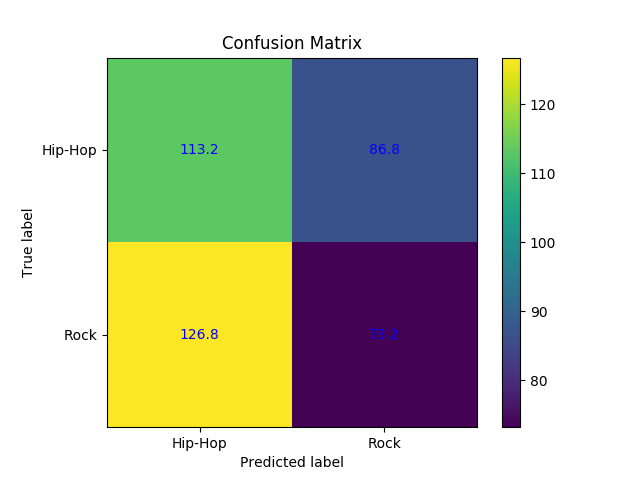
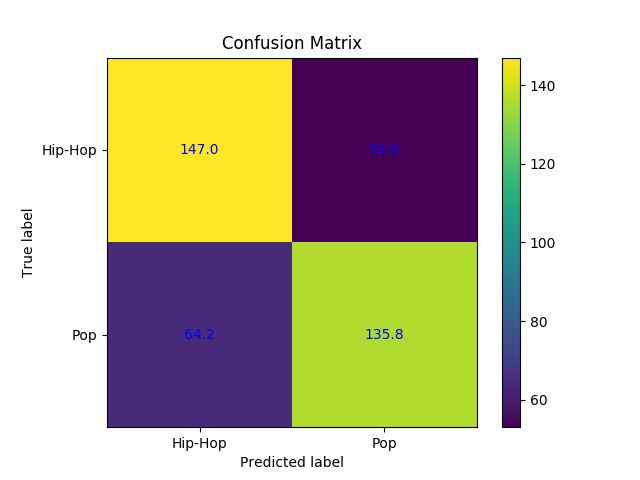
Added onehot encoding, allowed multi-class classification, added to README.md, no longer need to call dataloader

diff --git a/main.py b/main.py
@@ -1,8 +1,9 @@
 import numpy as np
 import pygsp as pg
 import pdb
+import sys
+import argparse
 
-from dataloader import *
 from utils import *
 from visualization import *
 from models import SVM, Random_Forest, KNN, GCN
@@ -12,13 +13,47 @@ from trainer import Trainer
 from evaluate import cross_validation, grid_search_for_param
 
 from sklearn.manifold import spectral_embedding
+from dataloader import save_features_labels_adjacency, load_features_labels_adjacency
+
 SEED = 0
-def run_demo():
+parser = argparse.ArgumentParser(description='Train image model with cross entropy loss')
+parser.add_argument('--only-features', action='store_true',
+                    help="Calculate features only (Default:False)")
+parser.add_argument('--recalculate-features', action='store_true',
+                    help="Calculate features before running classification(Default:False)")
+parser.add_argument('--genres', default=None, nargs='+', type=str,
+                    help="list of genre used(Default: None)")
+parser.add_argument('--num-classes', type=int, default=None,
+                    help="number of random genres(Default:Use list from --genres)")
+parser.add_argument('--threshold', type=int, default=0.66,
+                    help="Threshold for cutting weight (Default:0.66)")
+
+def run_demo(args):
+    args = parser.parse_args(args)
+    np.random.seed(SEED)
+    if args.recalculate_features or args.only_features:
+        print("Calculating Features ...")
+        if not(args.genres is None) and len(args.genres)>0:
+            num_classes = None
+        else:
+            num_classes = args.num_classes
+
+        save_features_labels_adjacency(normalize_features=False, use_PCA=False, rem_outliers=False, threshold=args.threshold, metric="correlation",
+                                       use_features=['mfcc'], dataset_size='small', genres=args.genres, num_classes=num_classes)
+
+        save_features_labels_adjacency(normalize_features = True, use_PCA = True, rem_outliers= False, threshold =args.threshold, metric="correlation",
+                                       use_features=['mfcc'], dataset_size='small', genres=args.genres, num_classes=num_classes)
+        if args.only_features:
+            return
+
     default_name = ""
     pca_name = "normalized_PCA_"
+    eigenmaps_name = "eigenmaps_"
 
-    features_pca, gt_labels, adjacency, pygsp_graph = load_features_labels_adjacency(default_name)
-    features_pca, gt_labels, adjacency_pca, pygsp_graph_pca = load_features_labels_adjacency(pca_name)
+    print("Loading features, labels, and adjacency")
+    features, gt_labels, gt_labels_onehot, genres, adjacency, pygsp_graph = load_features_labels_adjacency(default_name)
+    features_pca, gt_labels, gt_labels_onehot, genres, adjacency_pca, pygsp_graph_pca = load_features_labels_adjacency(pca_name)
+    print("Genres that will be used: {}".format(genres))
     plot_gt_labels(pygsp_graph, gt_labels, default_name)
     plot_gt_labels(pygsp_graph_pca, gt_labels, pca_name)
 
@@ -32,70 +67,70 @@ def run_demo():
                        random_state=SEED, eigen_tol=0.0,
                        norm_laplacian=True)
 
-    svm_clf = SVM(kernel='poly')
-    random_forest_clf = Random_Forest(n_estimators=1000, max_depth=2)
+    svm_clf = SVM(kernel='poly',seed=SEED)
+    random_forest_clf = Random_Forest(n_estimators=1000, max_depth=2,seed=SEED)
     knn_clf = KNN()
-    gnn = GCN(nfeat=features_pca.shape[-1], nhid=100, nclass=gt_labels.shape[-1], dropout=0.1)
+    #nn = GCN(nfeat=features_pca.shape[-1], nhid=100, nclass=gt_labels_onehot.shape[-1], dropout=0.1)
 
     print('############## Normal Adjacency ##############')
-    mean_error_svm, std_error_svm = cross_validation(features, gt_labels, svm_clf, K=5, name=default_name+"svm_")
+    mean_error_svm, std_error_svm = cross_validation(features, gt_labels, svm_clf, K=5,classes=genres, name=default_name+"svm_")
     print('SVM cross validation error mean: {:.2f}, std: {:.2f}'.format(mean_error_svm, std_error_svm))
 
-    mean_error_rf, std_error_rf = cross_validation(features, gt_labels, random_forest_clf, K=5, name=default_name+"rf_")
+    mean_error_rf, std_error_rf = cross_validation(features, gt_labels, random_forest_clf, K=5,classes=genres, name=default_name+"rf_")
     print('Random Forest cross validation error mean: {:.2f}, std: {:.2f}'.format(mean_error_rf, std_error_rf))
 
-    mean_error_knn, std_error_knn = cross_validation(features, gt_labels, knn_clf, K=5, name=default_name+"knn_")
+    mean_error_knn, std_error_knn = cross_validation(features, gt_labels, knn_clf, K=5,classes=genres, name=default_name+"knn_")
     print('KNN cross validation error mean: {:.2f}, std: {:.2f}'.format(mean_error_knn, std_error_knn))
     print('')
 
     print('############## Normalized + PCA ##############')
 
-    mean_error_svm, std_error_svm = cross_validation(features_pca, gt_labels, svm_clf, K=5, name=pca_name+"svm_")
+    mean_error_svm, std_error_svm = cross_validation(features_pca, gt_labels, svm_clf, K=5,classes=genres, name=pca_name+"svm_")
     print('Normalized, PCA, SVM cross validation error mean: {:.2f}, std: {:.2f}'.format(mean_error_svm, std_error_svm))
 
-    mean_error_rf, std_error_rf = cross_validation(features_pca, gt_labels, random_forest_clf, K=5, name=pca_name+"rf_")
+    mean_error_rf, std_error_rf = cross_validation(features_pca, gt_labels, random_forest_clf, K=5,classes=genres, name=pca_name+"rf_")
     print('Normalized, PCA, Random Forest cross validation error mean: {:.2f}, std: {:.2f}'.format(mean_error_rf, std_error_rf))
 
-    mean_error_knn, std_error_knn = cross_validation(features_pca, gt_labels, knn_clf, K=5, name=pca_name+"knn_")
+    mean_error_knn, std_error_knn = cross_validation(features_pca, gt_labels, knn_clf, K=5,classes=genres, name=pca_name+"knn_")
     print('Normalized, PCA, KNN cross validation error mean: {:.2f}, std: {:.2f}'.format(mean_error_knn, std_error_knn))
     print('')
 
     print('############## Using Eigenmaps ##############')
 
-    mean_error_svm, std_error_svm = cross_validation(features_lap, gt_labels, svm_clf, K=5, name=default_name+"svm_")
+    mean_error_svm, std_error_svm = cross_validation(features_lap, gt_labels, svm_clf, K=5,classes=genres, name=default_name+eigenmaps_name+"svm_")
     print('Eigenmaps,SVM cross validation error mean: {:.2f}, std: {:.2f}'.format(mean_error_svm, std_error_svm))
 
-    mean_error_rf, std_error_rf = cross_validation(features_lap, gt_labels, random_forest_clf, K=5, name=default_name+"rf_")
+    mean_error_rf, std_error_rf = cross_validation(features_lap, gt_labels, random_forest_clf, K=5,classes=genres, name=default_name+eigenmaps_name+"rf_")
     print('Eigenmaps,Random Forest cross validation error mean: {:.2f}, std: {:.2f}'.format(mean_error_rf, std_error_rf))
 
-    mean_error_knn, std_error_knn = cross_validation(features_lap, gt_labels, knn_clf, K=5, name=default_name+"knn_")
+    mean_error_knn, std_error_knn = cross_validation(features_lap, gt_labels, knn_clf, K=5,classes=genres, name=default_name+eigenmaps_name+"knn_")
     print('Eigenmaps,KNN cross validation error mean: {:.2f}, std: {:.2f}'.format(mean_error_knn, std_error_knn))
     print('')
 
     print('############## Using Eigenmaps + Normalized + PCA ##############')
 
-    mean_error_svm, std_error_svm = cross_validation(features_lap_pca, gt_labels, svm_clf, K=5, name=pca_name+"svm_")
+    mean_error_svm, std_error_svm = cross_validation(features_lap_pca, gt_labels, svm_clf, K=5,classes=genres, name=pca_name+eigenmaps_name+"svm_")
     print('Normalized, PCA,Eigenmaps, SVM cross validation error mean: {:.2f}, std: {:.2f}'.format(mean_error_svm, std_error_svm))
 
-    mean_error_rf, std_error_rf = cross_validation(features_lap_pca, gt_labels, random_forest_clf, K=5, name=pca_name+"rf_")
+    mean_error_rf, std_error_rf = cross_validation(features_lap_pca, gt_labels, random_forest_clf, K=5,classes=genres, name=pca_name+eigenmaps_name+"rf_")
     print('Normalized, PCA,Eigenmaps, Random Forest cross validation error mean: {:.2f}, std: {:.2f}'.format(mean_error_rf, std_error_rf))
 
-    mean_error_knn, std_error_knn = cross_validation(features_lap_pca, gt_labels, knn_clf, K=5, name=pca_name+"knn_")
+    mean_error_knn, std_error_knn = cross_validation(features_lap_pca, gt_labels, knn_clf, K=5,classes=genres, name=pca_name+eigenmaps_name+"knn_")
     print('Normalized, PCA,Eigenmaps, KNN cross validation error mean: {:.2f}, std: {:.2f}'.format(mean_error_knn, std_error_knn))
 
 def run_grid_search_for_optimal_param():
     pca_name = "normalized_PCA_"
-    features_pca, gt_labels, adjacency_pca, adjacency_pg_pca = load_features_labels_adjacency(pca_name)
+    features_pca, gt_labels, gt_labels_onehot,genres, adjacency_pca, pygsp_graph_pca = load_features_labels_adjacency(pca_name)
 
-    svm_clf = SVM()
-    random_forest_clf = Random_Forest()
+    svm_clf = SVM(kernel='poly',seed=SEED)
+    random_forest_clf = Random_Forest(n_estimators=1000, max_depth=2,seed=SEED)
     knn_clf = KNN()
 
     #grid_search_for_param(features_pca, gt_labels, knn_clf, "KNN", K=5, name=pca_name) #ran it and found 42
-    grid_search_for_param(features_pca, gt_labels, random_forest_clf, "Random_Forest", K=5, name=pca_name)
+    grid_search_for_param(features_pca, gt_labels, random_forest_clf, "Random_Forest",classes=genres, K=5, name=pca_name)
 
 if __name__ == "__main__":
-    run_demo()
+    run_demo(sys.argv[1:])
 
 
 #THIS FUNCTION WILL BE USELESS SOON BUT DO NOT DELETE

diff --git a/dataloader.py b/dataloader.py
@@ -51,38 +51,46 @@ def csv_loader():
     # MAYBE WE WONT NEED THESE BUT I KEPT THEM ANYWAY
 
     # Merges feature dataframe with genre_top column in tracks based on track_id
-    #merged_full = pd.merge(features, tracks['track', 'genre_top'].to_frame(), on="track_id") 
+    #merged_full = pd.merge(features, tracks['track', 'genre_top'].to_frame(), on="track_id")
     # Separates the 16 top genres into columns with binary encoding
     #merged_full_binary = merged_full.join(pd.get_dummies(merged_full.pop(('track', 'genre_top'))))
 
     return tracks, features
 
-def select_features(tracks, features, use_features = ['mfcc'], dataset_size = 'small', genres = ['Hip-Hop', 'Rock']):
-    small = tracks[tracks['set', 'subset'] == dataset_size]
+def select_features(tracks, features, use_features = ['mfcc'], dataset_size = None, genres = None, num_classes=None):
+    if dataset_size:
+        small = tracks[tracks['set', 'subset'] == dataset_size]
+    else:
+        small = tracks
 
-    # Filters out only the tracks that are Hip-Hop and Rock from small subset --> 2000 tracks
-    if genres:
-        temp = small['track', 'genre_top'] == genres[0]
-        for ind in range(1, len(genres)):
-            temp = temp | (small['track', 'genre_top'] == genres[ind])
-        subset = small[temp]
+    if genres is None:
+        genres = list(small.track.genre_top.dropna().unique())
+        if not(num_classes is None):
+            genres = genres[:num_classes]
 
+    subset = small.loc[small['track', 'genre_top'].isin(genres)]
     # Takes a subset of features based on the tracks found in the variable subset
-    small_features = features[features.index.isin(subset.index)] 
-    #features_part_mfcc = small_features.loc[:,('mfcc', ('median', 'mean'), slice('01','12'))] 
+    small_features = features[features.index.isin(subset.index)]
+    #features_part_mfcc = small_features.loc[:,('mfcc', ('median', 'mean'), slice('01','12'))]
     #features_part_chroma = small_features.loc[:,('chroma_cens', ('median', 'mean'), slice('01','05'))] # Take chroma column as features
     #features_part = features_part_mfcc.join(features_part_chroma)
     features_part = small_features.loc[:,use_features].values
 
-    #save labels    
-    genres_gt = np.zeros([features_part.shape[0],1])
+    #save labels
+    genres_gt = np.zeros([features_part.shape[0]],dtype=np.int8)-1
+    genres_gt_onehot = np.zeros([features_part.shape[0],len(genres)],dtype=np.int8)
+    dict_genres = {}
     for ind in range(0, len(genres)):
-        temp = (subset['track', 'genre_top'] == genres[ind]).to_frame().values
-        genres_gt[temp] = ind
-    return features_part, genres_gt
+        temp = (subset['track', 'genre_top'] == genres[ind]).to_frame().values.squeeze()
+        genres_gt[temp] = int(ind)
+        dict_genres[genres[ind]] = int(ind)
+    if -1 in genres_gt:
+        raise ValueError('Not all tracks were labeled')
+    genres_gt_onehot[np.arange(features_part.shape[0]),genres_gt] = 1
+    return features_part, genres_gt,genres_gt_onehot,genres, dict_genres
 
 def form_adjacency(features, threshold = 0.66, metric ='correlation'):
-    distances = pdist(features, metric=metric) # Use cosine equation to calculate distance 
+    distances = pdist(features, metric=metric) # Use cosine equation to calculate distance
     kernel_width = distances.mean()
     weights = np.exp(-distances**2 / kernel_width**2) # Use Gaussian function to calculate weights
 
@@ -92,43 +100,53 @@ def form_adjacency(features, threshold = 0.66, metric ='correlation'):
     assert num_of_disconnected_nodes == 0
     return adjacency
 
-def save_features_labels_adjacency(normalize_features = True, use_PCA = True, rem_outliers = True, threshold = 0.66, metric = "correlation"):
+def save_features_labels_adjacency(normalize_features = True, use_PCA = True, rem_outliers = True, threshold = 0.66, metric = "correlation",use_features = ['mfcc'], dataset_size = 'small',genres=None,num_classes=None):
     tracks, features = csv_loader()
-    feature_values, genres_gt = select_features(tracks, features, use_features = ['mfcc'], dataset_size = 'small', genres = ['Hip-Hop', 'Rock'])
+    #feature_values, genres_gt,genres_gt_onehot,genres_classes, dict_genres = select_features(tracks, features, use_features = ['mfcc'], dataset_size = 'small', genres = ['Hip-Hop', 'Rock'], num_classes=num_classes)
+    feature_values, genres_gt,genres_gt_onehot,genres_classes, dict_genres = select_features(tracks, features, use_features = use_features, dataset_size = dataset_size,genres =genres, num_classes=num_classes)
 
     name = ""
     if (normalize_features):
         feature_values = normalize_feat(feature_values)
         name += "normalized_"
-    if use_PCA:    
+    if use_PCA:
         feature_values = generate_PCA_features(feature_values)
         name += "PCA_"
     if rem_outliers:
         feature_values = remove_outliers(feature_values)
         name += "nooutlier_"
-    
-    adjacency = form_adjacency(feature_values, threshold = 0.66, metric = "correlation")
+
+    adjacency = form_adjacency(feature_values, threshold = threshold, metric = metric)
 
     if not os.path.exists("dataset_saved_numpy"):
         os.makedirs("dataset_saved_numpy")
     np.save("dataset_saved_numpy/labels.npy", genres_gt)
+    np.save("dataset_saved_numpy/labels_onehot.npy",genres_gt_onehot)
     np.save("dataset_saved_numpy/"+ name + "adjacency.npy", adjacency)
     np.save("dataset_saved_numpy/"+ name + "features.npy", feature_values)
+    np.save("dataset_saved_numpy/genres_classes.npy", genres_classes)
+    np.save("dataset_saved_numpy/dict_genres.npy", dict_genres)
+    print("Features,labels,and genres saved using prefix: {}".format(name[:len(name)-1]))
     return name
 
 def load_features_labels_adjacency(name):
     assert os.path.exists("dataset_saved_numpy/" + name + "features.npy")
     assert os.path.exists("dataset_saved_numpy/" + name + "adjacency.npy")
     assert os.path.exists("dataset_saved_numpy/labels.npy")
+    assert os.path.exists("dataset_saved_numpy/labels_onehot.npy")
+    assert os.path.exists("dataset_saved_numpy/genres_classes.npy")
 
     features = np.load("dataset_saved_numpy/" + name + "features.npy")
     adjacency =  np.load("dataset_saved_numpy/" + name + "adjacency.npy")
     labels = np.load("dataset_saved_numpy/labels.npy")
+    labels_onehot = np.load("dataset_saved_numpy/labels_onehot.npy")
+    dict_genres = np.load("dataset_saved_numpy/dict_genres.npy")
+    genres_classes = np.load("dataset_saved_numpy/genres_classes.npy")
 
     pygsp_graph = pg.graphs.Graph(adjacency, lap_type = 'normalized')
     pygsp_graph.set_coordinates('spring') #for visualization
-    return features, labels, adjacency, pygsp_graph
+    return features, labels,labels_onehot,genres_classes, adjacency, pygsp_graph
 
-if __name__ == "__main__":
-    name1 = save_features_labels_adjacency(normalize_features = False, use_PCA = False, rem_outliers= False)
-    name2 = save_features_labels_adjacency(normalize_features = True, use_PCA = True, rem_outliers= False)
+# if __name__ == "__main__":
+#     name1 = save_features_labels_adjacency(normalize_features = False, use_PCA = False, rem_outliers= False,genres = ['Hip-Hop', 'Rock'])
+#     name2 = save_features_labels_adjacency(normalize_features = True, use_PCA = True, rem_outliers= False,genres = ['Hip-Hop', 'Rock'])

diff --git a/evaluate.py b/evaluate.py
@@ -7,13 +7,13 @@ from graph_analysis import Our_Graph
 from trainer import Trainer
 from sklearn.metrics import confusion_matrix
 
-def cross_validation(features, labels, model, K=5, classes = ['Hip-Hop', 'Rock'], name = ""):
+def cross_validation(features, labels, model, classes, K=5, name = ""):
     n_data = features.shape[0]
     batch_size = n_data//K
 
     shuffled_ind = np.random.permutation(n_data)
     shuffled_feat = features[shuffled_ind, :]
-    shuffled_labels = labels[shuffled_ind, :]
+    shuffled_labels = labels[shuffled_ind]
 
     errors = np.zeros([K,])
     confusion_matrices = np.zeros([K, len(classes), len(classes)])
@@ -21,15 +21,15 @@ def cross_validation(features, labels, model, K=5, classes = ['Hip-Hop', 'Rock']
         features_test = shuffled_feat[batch_size*k:batch_size*(k+1),:]
         features_tr = np.concatenate([shuffled_feat[0:batch_size*k,:], shuffled_feat[batch_size*(k+1):-1,:]], axis=0)
 
-        gt_labels_test = shuffled_labels[batch_size*k:batch_size*(k+1),0]
-        gt_labels_tr = np.concatenate([shuffled_labels[0:batch_size*k,0], shuffled_labels[batch_size*(k+1):-1,0]], axis=0)
+        gt_labels_test = shuffled_labels[batch_size*k:batch_size*(k+1)]
+        gt_labels_tr = np.concatenate([shuffled_labels[0:batch_size*k], shuffled_labels[batch_size*(k+1):-1]], axis=0)
 
         model.train(features_tr, gt_labels_tr)
         predicted_classes_svm = model.classify(features_test)
         confusion_matrices[k, :, :] = confusion_matrix(gt_labels_test, predicted_classes_svm)
         errors[k] = error_func(gt_labels_test, predicted_classes_svm)
         #print('Iter {0:d} Percentage Error: {1:.2f}'.format(k, errors[k]))
-    
+
     mean_error = np.mean(errors)
     std_error = np.std(errors)
     overall_confusion_matrix = np.mean(confusion_matrices, axis=0)
@@ -37,7 +37,7 @@ def cross_validation(features, labels, model, K=5, classes = ['Hip-Hop', 'Rock']
     return mean_error, std_error
 
 
-def grid_search_for_param(features, labels, model, model_name, K=5, classes = ['Hip-Hop', 'Rock'], name = ""):
+def grid_search_for_param(features, labels, model, model_name, classes, K=5, name = ""):
     if model_name == "KNN":
         num_of_neigh_range = list(range(10,100,2))
         errors = np.zeros([len(num_of_neigh_range), ])

diff --git a/models.py b/models.py
@@ -60,11 +60,11 @@ class GCN(torch.nn.Module):
         return F.log_softmax(x, dim=1)
 
 class SVM():
-    def __init__(self,kernel,poly_degree=3):
+    def __init__(self,kernel,poly_degree=3,seed=0):
         if kernel == 'linear':
-            self.clf = svm.LinearSVC(multi_class='ovr') # Can use 'crammer_singer’ but more expensive while not that much better accuracy(only more stable)
+            self.clf = svm.LinearSVC(multi_class='ovr',random_state=seed) # Can use 'crammer_singer’ but more expensive while not that much better accuracy(only more stable)
         else:
-            self.clf = svm.SVC(gamma='auto', kernel=kernel,degree=poly_degree,decision_function_shape='ovr')
+            self.clf = svm.SVC(gamma='auto', kernel=kernel,degree=poly_degree,decision_function_shape='ovr',random_state=seed)
 
     def train(self, features_tr, labels_tr):
         self.clf.fit(features_tr, labels_tr)

diff --git a/README.md b/README.md
@@ -1,2 +1,52 @@
-# ntds_project
-2018
+## Genre Classification for playlist recommendation
+A little info about your project and/ or overview that explains **what** the project is about.
+
+## Motivation
+A short description of the motivation behind the creation and maintenance of the project. This should explain **why** the project exists.
+
+## Screenshots
+Include logo/demo screenshot etc.
+
+## Features
+What makes your project stand out?
+
+## Dependencies
+- Python3.7
+- PyTorch
+- Numpy
+- sklearn
+
+## Installation
+Clone this repository and install all required packages.
+```
+pip install -r requirements.txt
+```
+## How to use?
+The different arguments that can be passed to `main.py`:
+- `--recalculate-features` : Calculates and saves features and then continues classification (Default: False)
+- `--only-features` : Only calculates and saves features (Default: False)
+- `--genres` : List of genres used for classification (Default: None)
+- `--num-classes` : Number of classes randomly chosen for classification (Default: None)
+- `--threshold` : Threshold for the weights of edges (Default: 0.66)
+
+To only calculate and save the features and labels with default arguments:
+```
+python main.py --only-features
+```
+
+To run genre classification only by loading previously saved features:
+```
+python main.py
+```
+
+To calculate and save the features and then continue classification:
+```
+python main.py --recalculate-features --genres 'Hip-Hop' 'Rock' --threshold 0.66
+```
+
+## Credits
+Reference papers used
+
+
+## License
+Please, see the [license](LICENSE) for further details.
